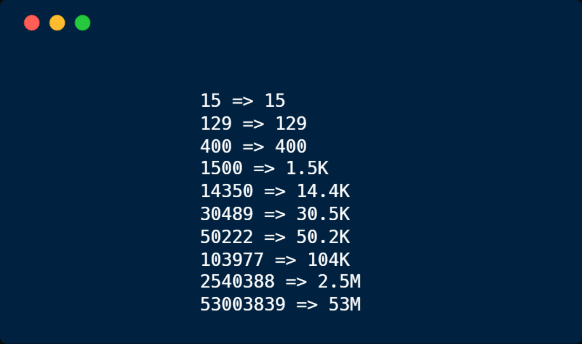
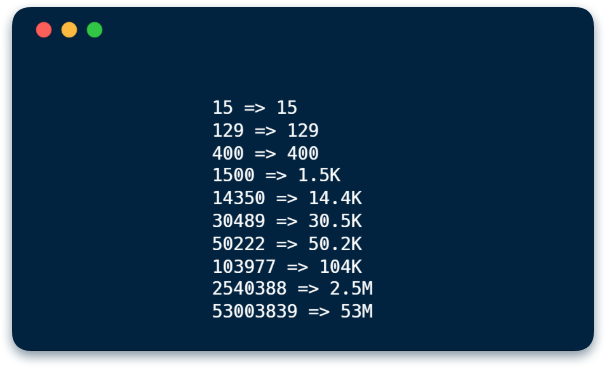
better md

Changed region(s): [[0.0, 0.0, 1.0, 1.0], [0.3402, 0.2616, 0.6186, 0.9012]]

diff --git a/README.md b/README.md
@@ -3,7 +3,7 @@
 
 
 <p align="center">
-    <img src="./images/cover.png" style="border-radius: 15px;box-shadow: 0 4px 8px 0 rgba(0, 0, 0, 0.2), 0 6px 20px 0 rgba(0, 0, 0, 0.19);">
+    <img src="./images/cover.png">
   <br>
   <p align="center">
     Abbreviate numbers in javascript
@@ -31,7 +31,7 @@ const num = abbreviateNumber(1111, 2); // expected 1.11K
 const num = abbreviateNumber(1234.56, 1); // expected 1.2K
 
 ```
-
+`abbreviateNumber(num: number, digit?: number, symbols?: Array<string>): string`
 
 The `symbols` is optional. It can be an array of units, defaulting to `["", "K", "M", "G", "T", "P", "E"]`.
 
